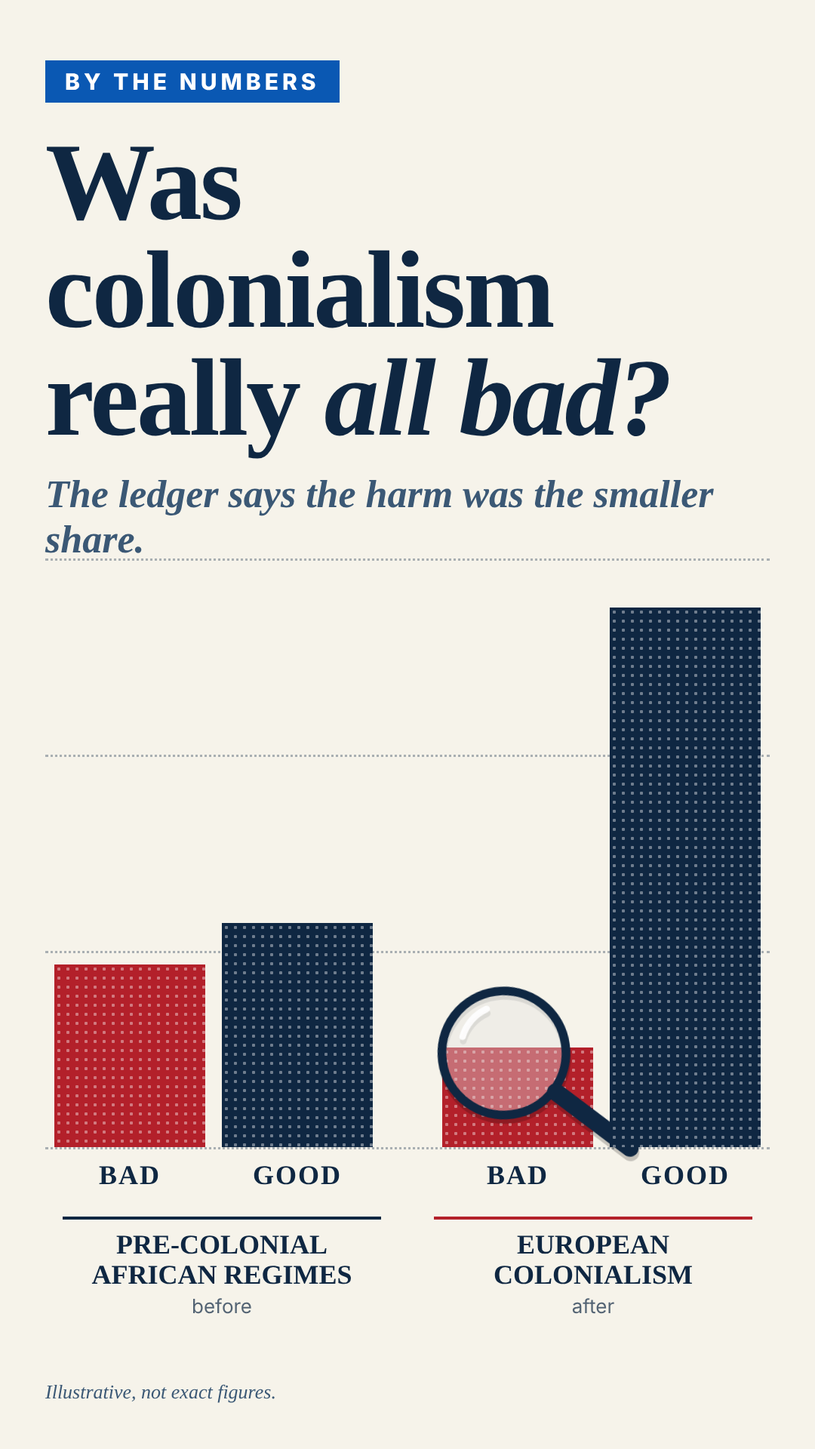
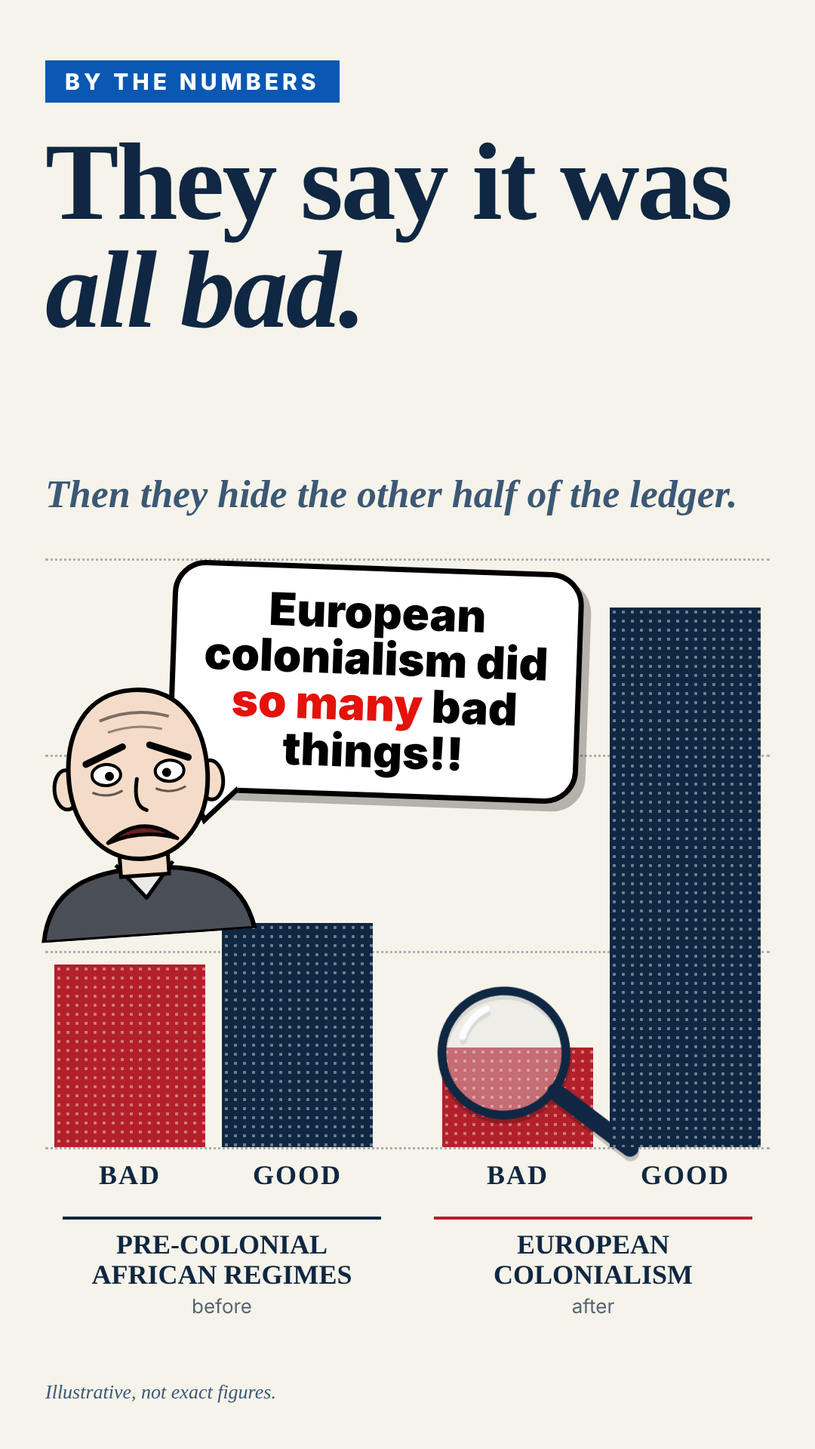
Add Wojak speech-bubble meme and sensational headlines to editorial set
Claude-Session: https://claude.ai/code/session_01Vet8Zrtweyw8aGUYMcxvyG

Changed region(s): [[0.0306, 0.0938, 0.8861, 0.6562], [0.6722, 0.0938, 0.9167, 0.1562], [0.5806, 0.0938, 0.6722, 0.1562]]

diff --git a/graphics/src/n1-times-editorial.html b/graphics/src/n1-times-editorial.html
@@ -8,16 +8,31 @@
 .mag{position:absolute;width:290px;height:290px;left:50%;top:50%;margin-left:-125px;transform:translateY(-175px) rotate(-8deg)}
 .groups{display:flex;justify-content:center;margin-top:92px}.grp{width:422px;text-align:center;border-top:6px solid #888;padding-top:14px}.grp+.grp{margin-left:70px}
 .gt{font-weight:800;font-size:36px;line-height:1.1;text-transform:uppercase}.gs{font-size:26px;margin-top:6px;opacity:.7}
+.wjw{z-index:5;position:absolute;left:0;top:750px;width:800px;height:500px}
+.wj{position:absolute;left:36px;top:150px;width:300px;height:340px;transform:rotate(-4deg)}
+.bubble{position:absolute;left:225px;top:0;width:545px;padding:24px 28px;background:#fff;color:#000;border:7px solid #000;border-radius:44px;font-family:Inter,sans-serif;font-weight:900;font-size:60px;line-height:1.02;text-align:center;transform:rotate(2deg);box-shadow:10px 10px 0 #0004}.bubble u{text-decoration:none;color:#e3120b}
+.bubble:after{content:"";position:absolute;left:22px;bottom:-30px;width:56px;height:56px;background:#fff;border-right:7px solid #000;border-bottom:7px solid #000;transform:rotate(55deg) skew(10deg,10deg)}
 .foot{position:absolute;bottom:60px;left:60px;right:60px;font-size:24px}
 .stage{background:#fff;color:#121212}
 .k{position:absolute;top:78px;left:60px;right:60px;font-weight:800;font-size:28px;letter-spacing:4px;color:#666;text-transform:uppercase;border-bottom:3px solid #121212;padding-bottom:16px}
-h1{position:absolute;top:150px;left:60px;right:60px;font-family:'Liberation Serif','DejaVu Serif',serif;font-weight:700;font-size:150px;line-height:.96;letter-spacing:-3px}
+h1{position:absolute;top:150px;left:60px;right:60px;font-family:'Liberation Serif','DejaVu Serif',serif;font-weight:700;font-size:136px;line-height:.96;letter-spacing:-3px}
 h1 i{font-style:italic;color:#bf3a30}
 h2{position:absolute;top:630px;left:60px;right:80px;font-family:'Liberation Serif',serif;font-size:50px;line-height:1.15;color:#444;font-weight:400}
 .bad .bar{background:#bf3a30}.good .bar{background:#2f7d5b}.lab{color:#121212;font-family:'Liberation Sans',sans-serif}
 .grp{border-top-color:#121212}.grp.eu{border-top-color:#121212}.gt{font-family:'Liberation Sans',sans-serif;font-size:32px}.gs{font-family:'Liberation Serif',serif;font-style:italic;font-size:30px}
-.mag{filter:drop-shadow(0 6px 6px #0003)}.foot{color:#777;font-family:'Liberation Serif',serif;font-style:italic;font-size:26px;border-top:2px solid #ddd;padding-top:14px}</style></head><body><div class="stage"><div class="k">Opinion &nbsp;|&nbsp; The Chart</div><h1>“All bad”? <i>Look at the ratio.</i></h1><h2>What the colonial record looks like when you weigh the harm against the good.</h2>
+.mag{filter:drop-shadow(0 6px 6px #0003)}.foot{color:#777;font-family:'Liberation Serif',serif;font-style:italic;font-size:26px;border-top:2px solid #ddd;padding-top:14px}</style></head><body><div class="stage"><div class="k">Opinion &nbsp;|&nbsp; The Chart</div><h1>The chart they <i>hope you never see</i></h1><h2>Yes, there were bad things. Now weigh them against the good.</h2>
 <div class="chart"><div class="grid"><i></i><i></i><i></i><i></i></div><div class="bars"><div class="bw bad "><div class="bar" style="height:242px"></div><div class="lab">BAD</div></div><div class="bw good "><div class="bar" style="height:297px"></div><div class="lab">GOOD</div></div><div class="bw bad gap"><div class="bar" style="height:132px"></div><svg class="mag" viewBox="0 0 300 300"><circle cx="115" cy="115" r="85" fill="rgba(255,255,255,.35)" stroke="#121212" stroke-width="12"/>
 <path d="M62 85 A60 60 0 0 1 100 52" fill="none" stroke="#fff" stroke-width="9" stroke-linecap="round" opacity=".9"/>
 <line x1="178" y1="178" x2="268" y2="268" stroke="#121212" stroke-width="24" stroke-linecap="round"/></svg><div class="lab">BAD</div></div><div class="bw good "><div class="bar" style="height:715px"></div><div class="lab">GOOD</div></div></div>
-<div class="groups"><div class="grp pre"><div class="gt">Pre-colonial<br>Nigerian regimes</div><div class="gs">before</div></div><div class="grp eu"><div class="gt">European<br>colonialism</div><div class="gs">after</div></div></div></div><div class="foot">Illustrative, not exact figures. Bars show relative share of outcomes.</div></div></body></html>
+<div class="groups"><div class="grp pre"><div class="gt">Pre-colonial<br>Nigerian regimes</div><div class="gs">before</div></div><div class="grp eu"><div class="gt">European<br>colonialism</div><div class="gs">after</div></div></div></div><div class="wjw"><div class="bubble">European colonialism did <u>so many</u> bad things!!</div><svg class="wj" viewBox="0 0 300 340"><path d="M10 340 C22 268 78 250 150 250 C222 250 278 268 290 340Z" fill="#4a4f57" stroke="#000" stroke-width="6" stroke-linejoin="round"/>
+<path d="M112 244 L150 290 L188 244" fill="#e9e9e9" stroke="#000" stroke-width="5" stroke-linejoin="round"/>
+<rect x="118" y="215" width="64" height="45" fill="#f4dcc8" stroke="#000" stroke-width="5"/>
+<ellipse cx="54" cy="140" rx="16" ry="26" fill="#f4dcc8" stroke="#000" stroke-width="5"/><ellipse cx="246" cy="140" rx="16" ry="26" fill="#f4dcc8" stroke="#000" stroke-width="5"/>
+<path d="M150 14 C86 14 56 68 58 132 C60 190 96 238 150 238 C204 238 240 190 242 132 C244 68 214 14 150 14Z" fill="#f4dcc8" stroke="#000" stroke-width="6"/>
+<path d="M104 52 Q150 36 196 52" fill="none" stroke="#000" stroke-width="4" opacity=".5"/><path d="M114 68 Q150 58 186 68" fill="none" stroke="#000" stroke-width="3" opacity=".4"/>
+<path d="M82 108 L132 88" stroke="#000" stroke-width="9" stroke-linecap="round"/><path d="M218 108 L168 88" stroke="#000" stroke-width="9" stroke-linecap="round"/>
+<ellipse cx="108" cy="124" rx="19" ry="14" fill="#fff" stroke="#000" stroke-width="4"/><ellipse cx="192" cy="124" rx="19" ry="14" fill="#fff" stroke="#000" stroke-width="4"/>
+<circle cx="112" cy="126" r="6" fill="#000"/><circle cx="188" cy="126" r="6" fill="#000"/>
+<path d="M88 146 Q108 156 128 146" fill="none" stroke="#000" stroke-width="3" opacity=".6"/><path d="M172 146 Q192 156 212 146" fill="none" stroke="#000" stroke-width="3" opacity=".6"/>
+<path d="M148 132 Q140 168 158 174" fill="none" stroke="#000" stroke-width="5" stroke-linecap="round"/>
+<path d="M104 214 Q150 176 196 214 Q150 198 104 214Z" fill="#6b2020" stroke="#000" stroke-width="5" stroke-linejoin="round"/></svg></div><div class="foot">Illustrative, not exact figures. Bars show relative share of outcomes.</div></div></body></html>

diff --git a/graphics/src/n3-weekly-chartbook.html b/graphics/src/n3-weekly-chartbook.html
@@ -8,18 +8,33 @@
 .mag{position:absolute;width:290px;height:290px;left:50%;top:50%;margin-left:-125px;transform:translateY(-175px) rotate(-8deg)}
 .groups{display:flex;justify-content:center;margin-top:92px}.grp{width:422px;text-align:center;border-top:6px solid #888;padding-top:14px}.grp+.grp{margin-left:70px}
 .gt{font-weight:800;font-size:36px;line-height:1.1;text-transform:uppercase}.gs{font-size:26px;margin-top:6px;opacity:.7}
+.wjw{z-index:5;position:absolute;left:0;top:750px;width:800px;height:500px}
+.wj{position:absolute;left:36px;top:150px;width:300px;height:340px;transform:rotate(-4deg)}
+.bubble{position:absolute;left:225px;top:0;width:545px;padding:24px 28px;background:#fff;color:#000;border:7px solid #000;border-radius:44px;font-family:Inter,sans-serif;font-weight:900;font-size:60px;line-height:1.02;text-align:center;transform:rotate(2deg);box-shadow:10px 10px 0 #0004}.bubble u{text-decoration:none;color:#e3120b}
+.bubble:after{content:"";position:absolute;left:22px;bottom:-30px;width:56px;height:56px;background:#fff;border-right:7px solid #000;border-bottom:7px solid #000;transform:rotate(55deg) skew(10deg,10deg)}
 .foot{position:absolute;bottom:60px;left:60px;right:60px;font-size:24px}
 .stage{background:#fff;color:#121212}
 .rule{position:absolute;top:0;left:60px;width:140px;height:26px;background:#e3120b}
-h1{position:absolute;top:80px;left:60px;right:60px;font-weight:900;font-size:136px;line-height:.96;letter-spacing:-4px}
+h1{position:absolute;top:80px;left:60px;right:60px;font-weight:900;font-size:122px;line-height:.96;letter-spacing:-4px}
 h1 span{color:#e3120b}
 h2{position:absolute;top:530px;left:60px;right:80px;font-weight:500;font-size:46px;line-height:1.2;color:#444}
 .panelbg{position:absolute;left:30px;right:30px;top:700px;height:1110px;background:#dde9ef;z-index:0}
 .chart{z-index:1}.grid i{border-top:2px solid #fff}.grid i{border-top-width:4px}
 .bad .bar{background:#e3120b}.good .bar{background:#006ba2}.lab{color:#121212}
 .grp{border-top:4px solid #121212}.grp.eu{border-top-color:#121212}.gt{font-size:32px}
-.mag{filter:drop-shadow(0 6px 4px #0003)}.foot{color:#666;font-size:24px;bottom:50px;left:60px}</style></head><body><div class="stage"><div class="rule"></div><h1>The colonial ledger: <span>harm vs. good</span></h1><h2>The chart the “all bad” crowd leaves out</h2><div class="panelbg"></div>
+.mag{filter:drop-shadow(0 6px 4px #0003)}.foot{color:#666;font-size:24px;bottom:50px;left:60px}</style></head><body><div class="stage"><div class="rule"></div><h1>The chart <span>nobody</span> wants you to see</h1><h2>Colonialism: harm vs. good, side by side</h2><div class="panelbg"></div>
 <div class="chart"><div class="grid"><i></i><i></i><i></i><i></i></div><div class="bars"><div class="bw bad "><div class="bar" style="height:242px"></div><div class="lab">BAD</div></div><div class="bw good "><div class="bar" style="height:297px"></div><div class="lab">GOOD</div></div><div class="bw bad gap"><div class="bar" style="height:132px"></div><svg class="mag" viewBox="0 0 300 300"><circle cx="115" cy="115" r="85" fill="rgba(255,255,255,.35)" stroke="#121212" stroke-width="12"/>
 <path d="M62 85 A60 60 0 0 1 100 52" fill="none" stroke="#fff" stroke-width="9" stroke-linecap="round" opacity=".9"/>
 <line x1="178" y1="178" x2="268" y2="268" stroke="#121212" stroke-width="24" stroke-linecap="round"/></svg><div class="lab">BAD</div></div><div class="bw good "><div class="bar" style="height:715px"></div><div class="lab">GOOD</div></div></div>
-<div class="groups"><div class="grp pre"><div class="gt">Pre-colonial<br>Nigerian regimes</div><div class="gs">before</div></div><div class="grp eu"><div class="gt">European<br>colonialism</div><div class="gs">after</div></div></div></div><div class="foot">Illustrative, not exact figures. Relative share of outcomes.</div></div></body></html>
+<div class="groups"><div class="grp pre"><div class="gt">Pre-colonial<br>Nigerian regimes</div><div class="gs">before</div></div><div class="grp eu"><div class="gt">European<br>colonialism</div><div class="gs">after</div></div></div></div><div class="wjw"><div class="bubble">European colonialism did <u>so many</u> bad things!!</div><svg class="wj" viewBox="0 0 300 340"><path d="M10 340 C22 268 78 250 150 250 C222 250 278 268 290 340Z" fill="#4a4f57" stroke="#000" stroke-width="6" stroke-linejoin="round"/>
+<path d="M112 244 L150 290 L188 244" fill="#e9e9e9" stroke="#000" stroke-width="5" stroke-linejoin="round"/>
+<rect x="118" y="215" width="64" height="45" fill="#f4dcc8" stroke="#000" stroke-width="5"/>
+<ellipse cx="54" cy="140" rx="16" ry="26" fill="#f4dcc8" stroke="#000" stroke-width="5"/><ellipse cx="246" cy="140" rx="16" ry="26" fill="#f4dcc8" stroke="#000" stroke-width="5"/>
+<path d="M150 14 C86 14 56 68 58 132 C60 190 96 238 150 238 C204 238 240 190 242 132 C244 68 214 14 150 14Z" fill="#f4dcc8" stroke="#000" stroke-width="6"/>
+<path d="M104 52 Q150 36 196 52" fill="none" stroke="#000" stroke-width="4" opacity=".5"/><path d="M114 68 Q150 58 186 68" fill="none" stroke="#000" stroke-width="3" opacity=".4"/>
+<path d="M82 108 L132 88" stroke="#000" stroke-width="9" stroke-linecap="round"/><path d="M218 108 L168 88" stroke="#000" stroke-width="9" stroke-linecap="round"/>
+<ellipse cx="108" cy="124" rx="19" ry="14" fill="#fff" stroke="#000" stroke-width="4"/><ellipse cx="192" cy="124" rx="19" ry="14" fill="#fff" stroke="#000" stroke-width="4"/>
+<circle cx="112" cy="126" r="6" fill="#000"/><circle cx="188" cy="126" r="6" fill="#000"/>
+<path d="M88 146 Q108 156 128 146" fill="none" stroke="#000" stroke-width="3" opacity=".6"/><path d="M172 146 Q192 156 212 146" fill="none" stroke="#000" stroke-width="3" opacity=".6"/>
+<path d="M148 132 Q140 168 158 174" fill="none" stroke="#000" stroke-width="5" stroke-linecap="round"/>
+<path d="M104 214 Q150 176 196 214 Q150 198 104 214Z" fill="#6b2020" stroke="#000" stroke-width="5" stroke-linejoin="round"/></svg></div><div class="foot">Illustrative, not exact figures. Relative share of outcomes.</div></div></body></html>

diff --git a/graphics/src/n4-terminal-black.html b/graphics/src/n4-terminal-black.html
@@ -8,6 +8,10 @@
 .mag{position:absolute;width:290px;height:290px;left:50%;top:50%;margin-left:-125px;transform:translateY(-175px) rotate(-8deg)}
 .groups{display:flex;justify-content:center;margin-top:92px}.grp{width:422px;text-align:center;border-top:6px solid #888;padding-top:14px}.grp+.grp{margin-left:70px}
 .gt{font-weight:800;font-size:36px;line-height:1.1;text-transform:uppercase}.gs{font-size:26px;margin-top:6px;opacity:.7}
+.wjw{z-index:5;position:absolute;left:0;top:750px;width:800px;height:500px}
+.wj{position:absolute;left:36px;top:150px;width:300px;height:340px;transform:rotate(-4deg)}
+.bubble{position:absolute;left:225px;top:0;width:545px;padding:24px 28px;background:#fff;color:#000;border:7px solid #000;border-radius:44px;font-family:Inter,sans-serif;font-weight:900;font-size:60px;line-height:1.02;text-align:center;transform:rotate(2deg);box-shadow:10px 10px 0 #0004}.bubble u{text-decoration:none;color:#e3120b}
+.bubble:after{content:"";position:absolute;left:22px;bottom:-30px;width:56px;height:56px;background:#fff;border-right:7px solid #000;border-bottom:7px solid #000;transform:rotate(55deg) skew(10deg,10deg)}
 .foot{position:absolute;bottom:60px;left:60px;right:60px;font-size:24px}
 .stage{background:#000;color:#ff9f1c;font-family:'JetBrains Mono',monospace}
 .hdr{position:absolute;top:0;left:0;right:0;height:70px;background:#ff9f1c;color:#000;font-weight:800;font-size:30px;display:flex;align-items:center;padding:0 40px;letter-spacing:2px}
@@ -17,8 +21,19 @@ h2{position:absolute;top:560px;left:50px;right:60px;font-size:34px;line-height:1
 .grid i{border-top:2px dashed #ff9f1c44}
 .bad .bar{background:#ff3b30}.good .bar{background:#16e08f}.lab{color:#ff9f1c;font-family:'JetBrains Mono',monospace;font-size:32px}
 .grp{border-top:4px solid #ff9f1c66}.grp.eu{border-top-color:#ff9f1c}.gt{font-family:'JetBrains Mono',monospace;font-size:30px;color:#fff}.gs{color:#ff9f1c}
-.mag{filter:drop-shadow(0 0 16px #ff9f1c)}.foot{color:#ff9f1c99;font-size:22px}</style></head><body><div class="stage"><div class="hdr">OUTCOMES &lt;GO&gt; &nbsp;|&nbsp; COLONIAL LEDGER</div><h1>The ratio <span>nobody</span> charts</h1><h2>&gt; BAD vs GOOD OUTCOMES<br>&gt; BEFORE / AFTER EUROPEAN RULE</h2>
+.mag{filter:drop-shadow(0 0 16px #ff9f1c)}.foot{color:#ff9f1c99;font-size:22px}</style></head><body><div class="stage"><div class="hdr">OUTCOMES &lt;GO&gt; &nbsp;|&nbsp; COLONIAL LEDGER</div><h1>The ratio they <span>won’t</span> show you</h1><h2>&gt; BAD vs GOOD OUTCOMES<br>&gt; BEFORE / AFTER EUROPEAN RULE</h2>
 <div class="chart"><div class="grid"><i></i><i></i><i></i><i></i></div><div class="bars"><div class="bw bad "><div class="bar" style="height:242px"></div><div class="lab">BAD</div></div><div class="bw good "><div class="bar" style="height:297px"></div><div class="lab">GOOD</div></div><div class="bw bad gap"><div class="bar" style="height:132px"></div><svg class="mag" viewBox="0 0 300 300"><circle cx="115" cy="115" r="85" fill="rgba(255,255,255,.35)" stroke="#ff9f1c" stroke-width="12"/>
 <path d="M62 85 A60 60 0 0 1 100 52" fill="none" stroke="#fff" stroke-width="9" stroke-linecap="round" opacity=".9"/>
 <line x1="178" y1="178" x2="268" y2="268" stroke="#ff9f1c" stroke-width="24" stroke-linecap="round"/></svg><div class="lab">BAD</div></div><div class="bw good "><div class="bar" style="height:715px"></div><div class="lab">GOOD</div></div></div>
-<div class="groups"><div class="grp pre"><div class="gt">PRE-COLONIAL<br>NIGERIAN REGIMES</div><div class="gs">before</div></div><div class="grp eu"><div class="gt">EUROPEAN<br>COLONIALISM</div><div class="gs">after</div></div></div></div><div class="foot">ILLUSTRATIVE. NOT EXACT FIGURES.</div></div></body></html>
+<div class="groups"><div class="grp pre"><div class="gt">PRE-COLONIAL<br>NIGERIAN REGIMES</div><div class="gs">before</div></div><div class="grp eu"><div class="gt">EUROPEAN<br>COLONIALISM</div><div class="gs">after</div></div></div></div><div class="wjw"><div class="bubble">European colonialism did <u>so many</u> bad things!!</div><svg class="wj" viewBox="0 0 300 340"><path d="M10 340 C22 268 78 250 150 250 C222 250 278 268 290 340Z" fill="#4a4f57" stroke="#000" stroke-width="6" stroke-linejoin="round"/>
+<path d="M112 244 L150 290 L188 244" fill="#e9e9e9" stroke="#000" stroke-width="5" stroke-linejoin="round"/>
+<rect x="118" y="215" width="64" height="45" fill="#f4dcc8" stroke="#000" stroke-width="5"/>
+<ellipse cx="54" cy="140" rx="16" ry="26" fill="#f4dcc8" stroke="#000" stroke-width="5"/><ellipse cx="246" cy="140" rx="16" ry="26" fill="#f4dcc8" stroke="#000" stroke-width="5"/>
+<path d="M150 14 C86 14 56 68 58 132 C60 190 96 238 150 238 C204 238 240 190 242 132 C244 68 214 14 150 14Z" fill="#f4dcc8" stroke="#000" stroke-width="6"/>
+<path d="M104 52 Q150 36 196 52" fill="none" stroke="#000" stroke-width="4" opacity=".5"/><path d="M114 68 Q150 58 186 68" fill="none" stroke="#000" stroke-width="3" opacity=".4"/>
+<path d="M82 108 L132 88" stroke="#000" stroke-width="9" stroke-linecap="round"/><path d="M218 108 L168 88" stroke="#000" stroke-width="9" stroke-linecap="round"/>
+<ellipse cx="108" cy="124" rx="19" ry="14" fill="#fff" stroke="#000" stroke-width="4"/><ellipse cx="192" cy="124" rx="19" ry="14" fill="#fff" stroke="#000" stroke-width="4"/>
+<circle cx="112" cy="126" r="6" fill="#000"/><circle cx="188" cy="126" r="6" fill="#000"/>
+<path d="M88 146 Q108 156 128 146" fill="none" stroke="#000" stroke-width="3" opacity=".6"/><path d="M172 146 Q192 156 212 146" fill="none" stroke="#000" stroke-width="3" opacity=".6"/>
+<path d="M148 132 Q140 168 158 174" fill="none" stroke="#000" stroke-width="5" stroke-linecap="round"/>
+<path d="M104 214 Q150 176 196 214 Q150 198 104 214Z" fill="#6b2020" stroke="#000" stroke-width="5" stroke-linejoin="round"/></svg></div><div class="foot">ILLUSTRATIVE. NOT EXACT FIGURES.</div></div></body></html>

diff --git a/graphics/src/n5-pink-paper.html b/graphics/src/n5-pink-paper.html
@@ -8,6 +8,10 @@
 .mag{position:absolute;width:290px;height:290px;left:50%;top:50%;margin-left:-125px;transform:translateY(-175px) rotate(-8deg)}
 .groups{display:flex;justify-content:center;margin-top:92px}.grp{width:422px;text-align:center;border-top:6px solid #888;padding-top:14px}.grp+.grp{margin-left:70px}
 .gt{font-weight:800;font-size:36px;line-height:1.1;text-transform:uppercase}.gs{font-size:26px;margin-top:6px;opacity:.7}
+.wjw{z-index:5;position:absolute;left:0;top:750px;width:800px;height:500px}
+.wj{position:absolute;left:36px;top:150px;width:300px;height:340px;transform:rotate(-4deg)}
+.bubble{position:absolute;left:225px;top:0;width:545px;padding:24px 28px;background:#fff;color:#000;border:7px solid #000;border-radius:44px;font-family:Inter,sans-serif;font-weight:900;font-size:60px;line-height:1.02;text-align:center;transform:rotate(2deg);box-shadow:10px 10px 0 #0004}.bubble u{text-decoration:none;color:#e3120b}
+.bubble:after{content:"";position:absolute;left:22px;bottom:-30px;width:56px;height:56px;background:#fff;border-right:7px solid #000;border-bottom:7px solid #000;transform:rotate(55deg) skew(10deg,10deg)}
 .foot{position:absolute;bottom:60px;left:60px;right:60px;font-size:24px}
 .stage{background:#fff1e5;color:#33302e}
 .k{position:absolute;top:84px;left:60px;font-weight:800;font-size:30px;letter-spacing:4px;color:#0d7680;text-transform:uppercase}
@@ -18,8 +22,19 @@ h2{position:absolute;top:625px;left:60px;right:80px;font-family:'Bitstream Chart
 .grid i{border-top:2px solid #33302e22}
 .bad .bar{background:#990f3d}.good .bar{background:#0d7680}.lab{color:#33302e;font-size:32px}
 .grp{border-top:3px solid #33302e}.grp.eu{border-top:6px solid #990f3d}.gt{font-family:'Bitstream Charter',serif;font-size:36px;text-transform:none;font-weight:700}.gs{font-family:'Bitstream Charter',serif;font-style:italic}
-.mag{filter:drop-shadow(0 6px 4px #0003)}.foot{color:#66605c;font-family:'Bitstream Charter',serif;font-style:italic;font-size:26px}</style></head><body><div class="stage"><div class="k">The big picture</div><h1>Colonialism’s <i>uncomfortable</i> arithmetic</h1><h2>Weigh the harm against the good, before and after.</h2>
+.mag{filter:drop-shadow(0 6px 4px #0003)}.foot{color:#66605c;font-family:'Bitstream Charter',serif;font-style:italic;font-size:26px}</style></head><body><div class="stage"><div class="k">The big picture</div><h1>The colonial maths <i>no one</i> will say aloud</h1><h2>Weigh the harm against the good, before and after.</h2>
 <div class="chart"><div class="grid"><i></i><i></i><i></i><i></i></div><div class="bars"><div class="bw bad "><div class="bar" style="height:242px"></div><div class="lab">BAD</div></div><div class="bw good "><div class="bar" style="height:297px"></div><div class="lab">GOOD</div></div><div class="bw bad gap"><div class="bar" style="height:132px"></div><svg class="mag" viewBox="0 0 300 300"><circle cx="115" cy="115" r="85" fill="rgba(255,255,255,.35)" stroke="#33302e" stroke-width="12"/>
 <path d="M62 85 A60 60 0 0 1 100 52" fill="none" stroke="#fff" stroke-width="9" stroke-linecap="round" opacity=".9"/>
 <line x1="178" y1="178" x2="268" y2="268" stroke="#33302e" stroke-width="24" stroke-linecap="round"/></svg><div class="lab">BAD</div></div><div class="bw good "><div class="bar" style="height:715px"></div><div class="lab">GOOD</div></div></div>
-<div class="groups"><div class="grp pre"><div class="gt">Pre-colonial<br>African regimes</div><div class="gs">before</div></div><div class="grp eu"><div class="gt">European<br>colonialism</div><div class="gs">after</div></div></div></div><div class="foot">Illustrative, not exact figures.</div></div></body></html>
+<div class="groups"><div class="grp pre"><div class="gt">Pre-colonial<br>African regimes</div><div class="gs">before</div></div><div class="grp eu"><div class="gt">European<br>colonialism</div><div class="gs">after</div></div></div></div><div class="wjw"><div class="bubble">European colonialism did <u>so many</u> bad things!!</div><svg class="wj" viewBox="0 0 300 340"><path d="M10 340 C22 268 78 250 150 250 C222 250 278 268 290 340Z" fill="#4a4f57" stroke="#000" stroke-width="6" stroke-linejoin="round"/>
+<path d="M112 244 L150 290 L188 244" fill="#e9e9e9" stroke="#000" stroke-width="5" stroke-linejoin="round"/>
+<rect x="118" y="215" width="64" height="45" fill="#f4dcc8" stroke="#000" stroke-width="5"/>
+<ellipse cx="54" cy="140" rx="16" ry="26" fill="#f4dcc8" stroke="#000" stroke-width="5"/><ellipse cx="246" cy="140" rx="16" ry="26" fill="#f4dcc8" stroke="#000" stroke-width="5"/>
+<path d="M150 14 C86 14 56 68 58 132 C60 190 96 238 150 238 C204 238 240 190 242 132 C244 68 214 14 150 14Z" fill="#f4dcc8" stroke="#000" stroke-width="6"/>
+<path d="M104 52 Q150 36 196 52" fill="none" stroke="#000" stroke-width="4" opacity=".5"/><path d="M114 68 Q150 58 186 68" fill="none" stroke="#000" stroke-width="3" opacity=".4"/>
+<path d="M82 108 L132 88" stroke="#000" stroke-width="9" stroke-linecap="round"/><path d="M218 108 L168 88" stroke="#000" stroke-width="9" stroke-linecap="round"/>
+<ellipse cx="108" cy="124" rx="19" ry="14" fill="#fff" stroke="#000" stroke-width="4"/><ellipse cx="192" cy="124" rx="19" ry="14" fill="#fff" stroke="#000" stroke-width="4"/>
+<circle cx="112" cy="126" r="6" fill="#000"/><circle cx="188" cy="126" r="6" fill="#000"/>
+<path d="M88 146 Q108 156 128 146" fill="none" stroke="#000" stroke-width="3" opacity=".6"/><path d="M172 146 Q192 156 212 146" fill="none" stroke="#000" stroke-width="3" opacity=".6"/>
+<path d="M148 132 Q140 168 158 174" fill="none" stroke="#000" stroke-width="5" stroke-linecap="round"/>
+<path d="M104 214 Q150 176 196 214 Q150 198 104 214Z" fill="#6b2020" stroke="#000" stroke-width="5" stroke-linejoin="round"/></svg></div><div class="foot">Illustrative, not exact figures.</div></div></body></html>

diff --git a/graphics/src/n2-journal-stipple.html b/graphics/src/n2-journal-stipple.html
@@ -8,6 +8,10 @@
 .mag{position:absolute;width:290px;height:290px;left:50%;top:50%;margin-left:-125px;transform:translateY(-175px) rotate(-8deg)}
 .groups{display:flex;justify-content:center;margin-top:92px}.grp{width:422px;text-align:center;border-top:6px solid #888;padding-top:14px}.grp+.grp{margin-left:70px}
 .gt{font-weight:800;font-size:36px;line-height:1.1;text-transform:uppercase}.gs{font-size:26px;margin-top:6px;opacity:.7}
+.wjw{z-index:5;position:absolute;left:0;top:750px;width:800px;height:500px}
+.wj{position:absolute;left:36px;top:150px;width:300px;height:340px;transform:rotate(-4deg)}
+.bubble{position:absolute;left:225px;top:0;width:545px;padding:24px 28px;background:#fff;color:#000;border:7px solid #000;border-radius:44px;font-family:Inter,sans-serif;font-weight:900;font-size:60px;line-height:1.02;text-align:center;transform:rotate(2deg);box-shadow:10px 10px 0 #0004}.bubble u{text-decoration:none;color:#e3120b}
+.bubble:after{content:"";position:absolute;left:22px;bottom:-30px;width:56px;height:56px;background:#fff;border-right:7px solid #000;border-bottom:7px solid #000;transform:rotate(55deg) skew(10deg,10deg)}
 .foot{position:absolute;bottom:60px;left:60px;right:60px;font-size:24px}
 .stage{background:#f6f3ea;color:#0f2742}
 .k{position:absolute;top:80px;left:60px;font-weight:800;font-size:30px;letter-spacing:5px;color:#fff;background:#0a58b3;padding:10px 26px;text-transform:uppercase}
@@ -17,8 +21,19 @@ h2{position:absolute;top:625px;left:60px;right:80px;font-family:'Liberation Seri
 .bar{background-image:radial-gradient(#fff6 2px,transparent 2.5px);background-size:12px 12px}
 .bad .bar{background-color:#b3202a}.good .bar{background-color:#0f2742}.lab{color:#0f2742;font-family:'Liberation Serif',serif;font-size:36px}
 .grp{border-top:4px solid #0f2742}.grp.eu{border-top-color:#b3202a}.gt{font-family:'Liberation Serif',serif;font-size:36px}
-.mag{filter:drop-shadow(0 6px 0 #0003)}.foot{color:#3b5875;font-family:'Liberation Serif',serif;font-style:italic;font-size:26px}</style></head><body><div class="stage"><div class="k">By the numbers</div><h1>Was colonialism really <em>all bad?</em></h1><h2>The ledger says the harm was the smaller share.</h2>
+.mag{filter:drop-shadow(0 6px 0 #0003)}.foot{color:#3b5875;font-family:'Liberation Serif',serif;font-style:italic;font-size:26px}</style></head><body><div class="stage"><div class="k">By the numbers</div><h1>They say it was <em>all bad.</em></h1><h2>Then they hide the other half of the ledger.</h2>
 <div class="chart"><div class="grid"><i></i><i></i><i></i><i></i></div><div class="bars"><div class="bw bad "><div class="bar" style="height:242px"></div><div class="lab">BAD</div></div><div class="bw good "><div class="bar" style="height:297px"></div><div class="lab">GOOD</div></div><div class="bw bad gap"><div class="bar" style="height:132px"></div><svg class="mag" viewBox="0 0 300 300"><circle cx="115" cy="115" r="85" fill="rgba(255,255,255,.35)" stroke="#0f2742" stroke-width="12"/>
 <path d="M62 85 A60 60 0 0 1 100 52" fill="none" stroke="#fff" stroke-width="9" stroke-linecap="round" opacity=".9"/>
 <line x1="178" y1="178" x2="268" y2="268" stroke="#0f2742" stroke-width="24" stroke-linecap="round"/></svg><div class="lab">BAD</div></div><div class="bw good "><div class="bar" style="height:715px"></div><div class="lab">GOOD</div></div></div>
-<div class="groups"><div class="grp pre"><div class="gt">Pre-colonial<br>African regimes</div><div class="gs">before</div></div><div class="grp eu"><div class="gt">European<br>colonialism</div><div class="gs">after</div></div></div></div><div class="foot">Illustrative, not exact figures.</div></div></body></html>
+<div class="groups"><div class="grp pre"><div class="gt">Pre-colonial<br>African regimes</div><div class="gs">before</div></div><div class="grp eu"><div class="gt">European<br>colonialism</div><div class="gs">after</div></div></div></div><div class="wjw"><div class="bubble">European colonialism did <u>so many</u> bad things!!</div><svg class="wj" viewBox="0 0 300 340"><path d="M10 340 C22 268 78 250 150 250 C222 250 278 268 290 340Z" fill="#4a4f57" stroke="#000" stroke-width="6" stroke-linejoin="round"/>
+<path d="M112 244 L150 290 L188 244" fill="#e9e9e9" stroke="#000" stroke-width="5" stroke-linejoin="round"/>
+<rect x="118" y="215" width="64" height="45" fill="#f4dcc8" stroke="#000" stroke-width="5"/>
+<ellipse cx="54" cy="140" rx="16" ry="26" fill="#f4dcc8" stroke="#000" stroke-width="5"/><ellipse cx="246" cy="140" rx="16" ry="26" fill="#f4dcc8" stroke="#000" stroke-width="5"/>
+<path d="M150 14 C86 14 56 68 58 132 C60 190 96 238 150 238 C204 238 240 190 242 132 C244 68 214 14 150 14Z" fill="#f4dcc8" stroke="#000" stroke-width="6"/>
+<path d="M104 52 Q150 36 196 52" fill="none" stroke="#000" stroke-width="4" opacity=".5"/><path d="M114 68 Q150 58 186 68" fill="none" stroke="#000" stroke-width="3" opacity=".4"/>
+<path d="M82 108 L132 88" stroke="#000" stroke-width="9" stroke-linecap="round"/><path d="M218 108 L168 88" stroke="#000" stroke-width="9" stroke-linecap="round"/>
+<ellipse cx="108" cy="124" rx="19" ry="14" fill="#fff" stroke="#000" stroke-width="4"/><ellipse cx="192" cy="124" rx="19" ry="14" fill="#fff" stroke="#000" stroke-width="4"/>
+<circle cx="112" cy="126" r="6" fill="#000"/><circle cx="188" cy="126" r="6" fill="#000"/>
+<path d="M88 146 Q108 156 128 146" fill="none" stroke="#000" stroke-width="3" opacity=".6"/><path d="M172 146 Q192 156 212 146" fill="none" stroke="#000" stroke-width="3" opacity=".6"/>
+<path d="M148 132 Q140 168 158 174" fill="none" stroke="#000" stroke-width="5" stroke-linecap="round"/>
+<path d="M104 214 Q150 176 196 214 Q150 198 104 214Z" fill="#6b2020" stroke="#000" stroke-width="5" stroke-linejoin="round"/></svg></div><div class="foot">Illustrative, not exact figures.</div></div></body></html>

diff --git a/graphics/src/build2.py b/graphics/src/build2.py
@@ -12,6 +12,21 @@ def chart(pre, eu, m, lb=("BAD","GOOD")):
     return f'''<div class="chart"><div class="grid"><i></i><i></i><i></i><i></i></div><div class="bars">{bw("bad",22)}{bw("good",27)}{bw("bad",12,"gap",m)}{bw("good",65)}</div>
 <div class="groups"><div class="grp pre"><div class="gt">{pre}</div><div class="gs">before</div></div><div class="grp eu"><div class="gt">{eu}</div><div class="gs">after</div></div></div></div>'''
 
+WOJAK = '''<svg class="wj" viewBox="0 0 300 340"><path d="M10 340 C22 268 78 250 150 250 C222 250 278 268 290 340Z" fill="#4a4f57" stroke="#000" stroke-width="6" stroke-linejoin="round"/>
+<path d="M112 244 L150 290 L188 244" fill="#e9e9e9" stroke="#000" stroke-width="5" stroke-linejoin="round"/>
+<rect x="118" y="215" width="64" height="45" fill="#f4dcc8" stroke="#000" stroke-width="5"/>
+<ellipse cx="54" cy="140" rx="16" ry="26" fill="#f4dcc8" stroke="#000" stroke-width="5"/><ellipse cx="246" cy="140" rx="16" ry="26" fill="#f4dcc8" stroke="#000" stroke-width="5"/>
+<path d="M150 14 C86 14 56 68 58 132 C60 190 96 238 150 238 C204 238 240 190 242 132 C244 68 214 14 150 14Z" fill="#f4dcc8" stroke="#000" stroke-width="6"/>
+<path d="M104 52 Q150 36 196 52" fill="none" stroke="#000" stroke-width="4" opacity=".5"/><path d="M114 68 Q150 58 186 68" fill="none" stroke="#000" stroke-width="3" opacity=".4"/>
+<path d="M82 108 L132 88" stroke="#000" stroke-width="9" stroke-linecap="round"/><path d="M218 108 L168 88" stroke="#000" stroke-width="9" stroke-linecap="round"/>
+<ellipse cx="108" cy="124" rx="19" ry="14" fill="#fff" stroke="#000" stroke-width="4"/><ellipse cx="192" cy="124" rx="19" ry="14" fill="#fff" stroke="#000" stroke-width="4"/>
+<circle cx="112" cy="126" r="6" fill="#000"/><circle cx="188" cy="126" r="6" fill="#000"/>
+<path d="M88 146 Q108 156 128 146" fill="none" stroke="#000" stroke-width="3" opacity=".6"/><path d="M172 146 Q192 156 212 146" fill="none" stroke="#000" stroke-width="3" opacity=".6"/>
+<path d="M148 132 Q140 168 158 174" fill="none" stroke="#000" stroke-width="5" stroke-linecap="round"/>
+<path d="M104 214 Q150 176 196 214 Q150 198 104 214Z" fill="#6b2020" stroke="#000" stroke-width="5" stroke-linejoin="round"/></svg>'''
+def wojak(bg="#fff"):
+    return f'''<div class="wjw"><div class="bubble">European colonialism did <u>so many</u> bad things!!</div>{WOJAK}</div>'''
+
 BASE = '''*{box-sizing:border-box;margin:0;padding:0}body{width:1080px;height:1920px;overflow:hidden;font-family:Inter,'Liberation Sans',sans-serif}
 .stage{position:relative;width:1080px;height:1920px;overflow:hidden}
 .chart{position:absolute;left:0;right:0;top:740px}
@@ -22,6 +37,10 @@ BASE = '''*{box-sizing:border-box;margin:0;padding:0}body{width:1080px;height:19
 .mag{position:absolute;width:290px;height:290px;left:50%;top:50%;margin-left:-125px;transform:translateY(-175px) rotate(-8deg)}
 .groups{display:flex;justify-content:center;margin-top:92px}.grp{width:422px;text-align:center;border-top:6px solid #888;padding-top:14px}.grp+.grp{margin-left:70px}
 .gt{font-weight:800;font-size:36px;line-height:1.1;text-transform:uppercase}.gs{font-size:26px;margin-top:6px;opacity:.7}
+.wjw{z-index:5;position:absolute;left:0;top:750px;width:800px;height:500px}
+.wj{position:absolute;left:36px;top:150px;width:300px;height:340px;transform:rotate(-4deg)}
+.bubble{position:absolute;left:225px;top:0;width:545px;padding:24px 28px;background:#fff;color:#000;border:7px solid #000;border-radius:44px;font-family:Inter,sans-serif;font-weight:900;font-size:60px;line-height:1.02;text-align:center;transform:rotate(2deg);box-shadow:10px 10px 0 #0004}.bubble u{text-decoration:none;color:#e3120b}
+.bubble:after{content:"";position:absolute;left:22px;bottom:-30px;width:56px;height:56px;background:#fff;border-right:7px solid #000;border-bottom:7px solid #000;transform:rotate(55deg) skew(10deg,10deg)}
 .foot{position:absolute;bottom:60px;left:60px;right:60px;font-size:24px}
 '''
 def page(name, css, body):
@@ -30,14 +49,14 @@ def page(name, css, body):
 # N1  NYT-style ---------------------------------------------------------
 page("n1-times-editorial", '''.stage{background:#fff;color:#121212}
 .k{position:absolute;top:78px;left:60px;right:60px;font-weight:800;font-size:28px;letter-spacing:4px;color:#666;text-transform:uppercase;border-bottom:3px solid #121212;padding-bottom:16px}
-h1{position:absolute;top:150px;left:60px;right:60px;font-family:'Liberation Serif','DejaVu Serif',serif;font-weight:700;font-size:150px;line-height:.96;letter-spacing:-3px}
+h1{position:absolute;top:150px;left:60px;right:60px;font-family:'Liberation Serif','DejaVu Serif',serif;font-weight:700;font-size:136px;line-height:.96;letter-spacing:-3px}
 h1 i{font-style:italic;color:#bf3a30}
 h2{position:absolute;top:630px;left:60px;right:80px;font-family:'Liberation Serif',serif;font-size:50px;line-height:1.15;color:#444;font-weight:400}
 .bad .bar{background:#bf3a30}.good .bar{background:#2f7d5b}.lab{color:#121212;font-family:'Liberation Sans',sans-serif}
 .grp{border-top-color:#121212}.grp.eu{border-top-color:#121212}.gt{font-family:'Liberation Sans',sans-serif;font-size:32px}.gs{font-family:'Liberation Serif',serif;font-style:italic;font-size:30px}
 .mag{filter:drop-shadow(0 6px 6px #0003)}.foot{color:#777;font-family:'Liberation Serif',serif;font-style:italic;font-size:26px;border-top:2px solid #ddd;padding-top:14px}''',
-f'''<div class="k">Opinion &nbsp;|&nbsp; The Chart</div><h1>“All bad”? <i>Look at the ratio.</i></h1><h2>What the colonial record looks like when you weigh the harm against the good.</h2>
-{chart("Pre-colonial<br>Nigerian regimes","European<br>colonialism",mag("#121212"))}<div class="foot">Illustrative, not exact figures. Bars show relative share of outcomes.</div>''')
+f'''<div class="k">Opinion &nbsp;|&nbsp; The Chart</div><h1>The chart they <i>hope you never see</i></h1><h2>Yes, there were bad things. Now weigh them against the good.</h2>
+{chart("Pre-colonial<br>Nigerian regimes","European<br>colonialism",mag("#121212"))}{wojak()}<div class="foot">Illustrative, not exact figures. Bars show relative share of outcomes.</div>''')
 
 # N2  WSJ-style ---------------------------------------------------------
 page("n2-journal-stipple", '''.stage{background:#f6f3ea;color:#0f2742}
@@ -49,13 +68,13 @@ h2{position:absolute;top:625px;left:60px;right:80px;font-family:'Liberation Seri
 .bad .bar{background-color:#b3202a}.good .bar{background-color:#0f2742}.lab{color:#0f2742;font-family:'Liberation Serif',serif;font-size:36px}
 .grp{border-top:4px solid #0f2742}.grp.eu{border-top-color:#b3202a}.gt{font-family:'Liberation Serif',serif;font-size:36px}
 .mag{filter:drop-shadow(0 6px 0 #0003)}.foot{color:#3b5875;font-family:'Liberation Serif',serif;font-style:italic;font-size:26px}''',
-f'''<div class="k">By the numbers</div><h1>Was colonialism really <em>all bad?</em></h1><h2>The ledger says the harm was the smaller share.</h2>
-{chart("Pre-colonial<br>African regimes","European<br>colonialism",mag("#0f2742"))}<div class="foot">Illustrative, not exact figures.</div>''')
+f'''<div class="k">By the numbers</div><h1>They say it was <em>all bad.</em></h1><h2>Then they hide the other half of the ledger.</h2>
+{chart("Pre-colonial<br>African regimes","European<br>colonialism",mag("#0f2742"))}{wojak()}<div class="foot">Illustrative, not exact figures.</div>''')
 
 # N3  Economist-style ------------------------------------------------------
 page("n3-weekly-chartbook", '''.stage{background:#fff;color:#121212}
 .rule{position:absolute;top:0;left:60px;width:140px;height:26px;background:#e3120b}
-h1{position:absolute;top:80px;left:60px;right:60px;font-weight:900;font-size:136px;line-height:.96;letter-spacing:-4px}
+h1{position:absolute;top:80px;left:60px;right:60px;font-weight:900;font-size:122px;line-height:.96;letter-spacing:-4px}
 h1 span{color:#e3120b}
 h2{position:absolute;top:530px;left:60px;right:80px;font-weight:500;font-size:46px;line-height:1.2;color:#444}
 .panelbg{position:absolute;left:30px;right:30px;top:700px;height:1110px;background:#dde9ef;z-index:0}
@@ -63,8 +82,8 @@ h2{position:absolute;top:530px;left:60px;right:80px;font-weight:500;font-size:46
 .bad .bar{background:#e3120b}.good .bar{background:#006ba2}.lab{color:#121212}
 .grp{border-top:4px solid #121212}.grp.eu{border-top-color:#121212}.gt{font-size:32px}
 .mag{filter:drop-shadow(0 6px 4px #0003)}.foot{color:#666;font-size:24px;bottom:50px;left:60px}''',
-f'''<div class="rule"></div><h1>The colonial ledger: <span>harm vs. good</span></h1><h2>The chart the “all bad” crowd leaves out</h2><div class="panelbg"></div>
-{chart("Pre-colonial<br>Nigerian regimes","European<br>colonialism",mag("#121212"))}<div class="foot">Illustrative, not exact figures. Relative share of outcomes.</div>''')
+f'''<div class="rule"></div><h1>The chart <span>nobody</span> wants you to see</h1><h2>Colonialism: harm vs. good, side by side</h2><div class="panelbg"></div>
+{chart("Pre-colonial<br>Nigerian regimes","European<br>colonialism",mag("#121212"))}{wojak()}<div class="foot">Illustrative, not exact figures. Relative share of outcomes.</div>''')
 
 # N4  Terminal-style ------------------------------------------------------
 page("n4-terminal-black", '''.stage{background:#000;color:#ff9f1c;font-family:'JetBrains Mono',monospace}
@@ -76,8 +95,8 @@ h2{position:absolute;top:560px;left:50px;right:60px;font-size:34px;line-height:1
 .bad .bar{background:#ff3b30}.good .bar{background:#16e08f}.lab{color:#ff9f1c;font-family:'JetBrains Mono',monospace;font-size:32px}
 .grp{border-top:4px solid #ff9f1c66}.grp.eu{border-top-color:#ff9f1c}.gt{font-family:'JetBrains Mono',monospace;font-size:30px;color:#fff}.gs{color:#ff9f1c}
 .mag{filter:drop-shadow(0 0 16px #ff9f1c)}.foot{color:#ff9f1c99;font-size:22px}''',
-f'''<div class="hdr">OUTCOMES &lt;GO&gt; &nbsp;|&nbsp; COLONIAL LEDGER</div><h1>The ratio <span>nobody</span> charts</h1><h2>&gt; BAD vs GOOD OUTCOMES<br>&gt; BEFORE / AFTER EUROPEAN RULE</h2>
-{chart("PRE-COLONIAL<br>NIGERIAN REGIMES","EUROPEAN<br>COLONIALISM",mag("#ff9f1c"))}<div class="foot">ILLUSTRATIVE. NOT EXACT FIGURES.</div>''')
+f'''<div class="hdr">OUTCOMES &lt;GO&gt; &nbsp;|&nbsp; COLONIAL LEDGER</div><h1>The ratio they <span>won’t</span> show you</h1><h2>&gt; BAD vs GOOD OUTCOMES<br>&gt; BEFORE / AFTER EUROPEAN RULE</h2>
+{chart("PRE-COLONIAL<br>NIGERIAN REGIMES","EUROPEAN<br>COLONIALISM",mag("#ff9f1c"))}{wojak()}<div class="foot">ILLUSTRATIVE. NOT EXACT FIGURES.</div>''')
 
 # N5  FT-style ------------------------------------------------------------
 page("n5-pink-paper", '''.stage{background:#fff1e5;color:#33302e}
@@ -90,5 +109,5 @@ h2{position:absolute;top:625px;left:60px;right:80px;font-family:'Bitstream Chart
 .bad .bar{background:#990f3d}.good .bar{background:#0d7680}.lab{color:#33302e;font-size:32px}
 .grp{border-top:3px solid #33302e}.grp.eu{border-top:6px solid #990f3d}.gt{font-family:'Bitstream Charter',serif;font-size:36px;text-transform:none;font-weight:700}.gs{font-family:'Bitstream Charter',serif;font-style:italic}
 .mag{filter:drop-shadow(0 6px 4px #0003)}.foot{color:#66605c;font-family:'Bitstream Charter',serif;font-style:italic;font-size:26px}''',
-f'''<div class="k">The big picture</div><h1>Colonialism’s <i>uncomfortable</i> arithmetic</h1><h2>Weigh the harm against the good, before and after.</h2>
-{chart("Pre-colonial<br>African regimes","European<br>colonialism",mag("#33302e"))}<div class="foot">Illustrative, not exact figures.</div>''')
+f'''<div class="k">The big picture</div><h1>The colonial maths <i>no one</i> will say aloud</h1><h2>Weigh the harm against the good, before and after.</h2>
+{chart("Pre-colonial<br>African regimes","European<br>colonialism",mag("#33302e"))}{wojak()}<div class="foot">Illustrative, not exact figures.</div>''')
